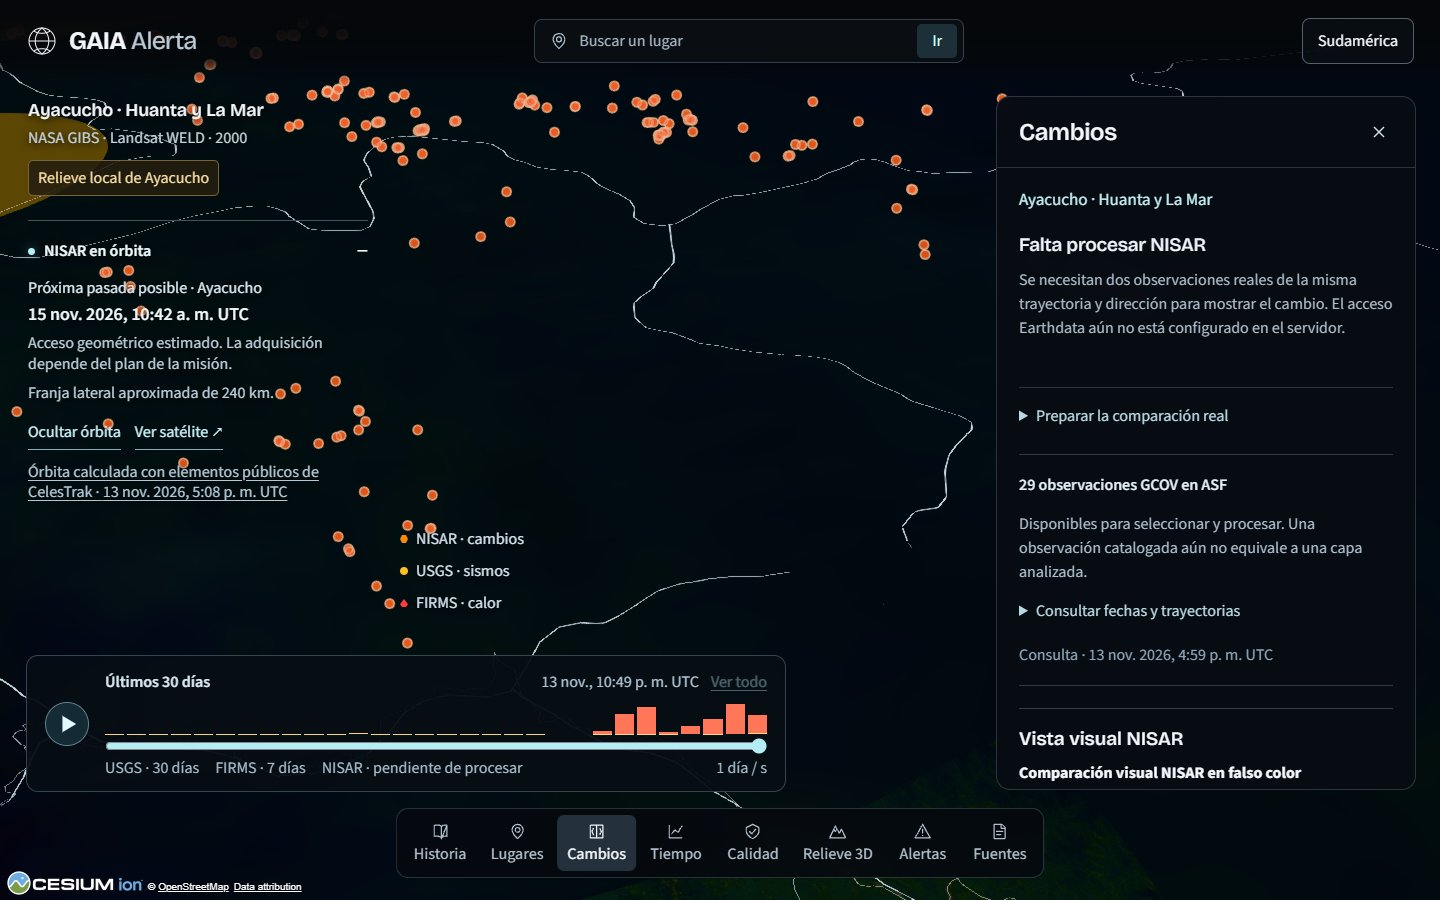
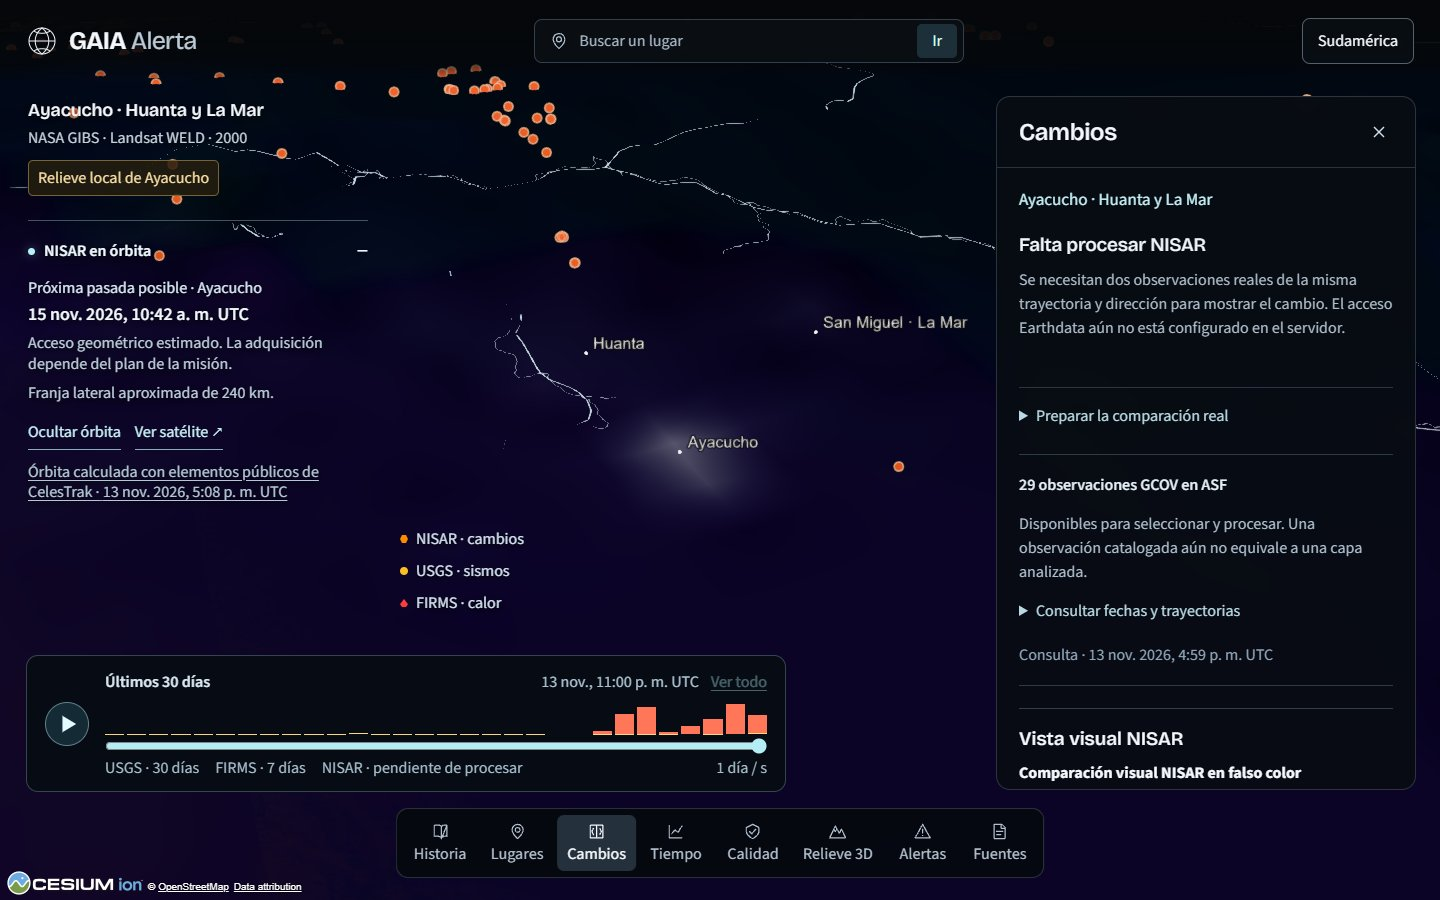
Centra el vuelo regional y corrige la oclusión de marcadores

diff --git a/apps/web/src/features/globe/Globe.tsx b/apps/web/src/features/globe/Globe.tsx
@@ -83,6 +83,7 @@ export function Globe({ aoi, tileUrl, beforeUrl, afterUrl, contextOverlay, split
     v.scene.backgroundColor = Cesium.Color.fromCssColorString("#05070a");
     v.scene.globe.baseColor = Cesium.Color.fromCssColorString("#071622");
     v.scene.globe.enableLighting = true;
+    v.scene.globe.depthTestAgainstTerrain = true;
     v.scene.globe.dynamicAtmosphereLighting = true;
     v.scene.globe.maximumScreenSpaceError = 1.5;
     v.scene.highDynamicRange = true;
@@ -287,9 +288,14 @@ export function Globe({ aoi, tileUrl, beforeUrl, afterUrl, contextOverlay, split
     const [w, s, e, n] = aoi.bbox;
     const cam = aoi.camera ?? {};
     const pad = camera === "overview" ? 6 : 0;
-    v.camera.flyTo({ destination: Cesium.Rectangle.fromDegrees(w - pad, s - pad, e + pad, n + pad),
-      orientation: { heading: Cesium.Math.toRadians(cam.heading_deg ?? 20),
-        pitch: Cesium.Math.toRadians(camera === "zone" ? -90 : camera === "overview" ? -60 : cam.pitch_deg ?? -38), roll: 0 },
+    const target = Cesium.Cartesian3.fromDegrees((w + e) / 2, (s + n) / 2);
+    const radius = Cesium.BoundingSphere.fromPoints([
+      Cesium.Cartesian3.fromDegrees(w - pad, s - pad), Cesium.Cartesian3.fromDegrees(e + pad, n + pad),
+    ]).radius;
+    const range = Math.max(camera === "zone" ? 80_000 : 120_000, radius * 3.6);
+    v.camera.flyToBoundingSphere(new Cesium.BoundingSphere(target, radius), {
+      offset: new Cesium.HeadingPitchRange(Cesium.Math.toRadians(cam.heading_deg ?? 20),
+        Cesium.Math.toRadians(camera === "zone" ? -90 : camera === "overview" ? -60 : cam.pitch_deg ?? -38), range),
       duration: window.matchMedia(REDUCED).matches ? 0 : 2.4, easingFunction: Cesium.EasingFunction.QUINTIC_IN_OUT });
   }, [aoi, camera, offline, active, reduceMotion]);
 
@@ -411,7 +417,7 @@ export function Globe({ aoi, tileUrl, beforeUrl, afterUrl, contextOverlay, split
         const point = points.add({ id, position: Cesium.Cartesian3.fromDegrees(lon, lat),
           pixelSize: 7, color: Cesium.Color.fromCssColorString("#ff6c3d"),
           outlineColor: Cesium.Color.fromCssColorString("#ffd1ab"), outlineWidth: 1,
-          disableDepthTestDistance: Number.POSITIVE_INFINITY, show: false });
+          disableDepthTestDistance: 0, show: false });
         firePoints.push({ point, date: Date.parse(p.date), lon, lat });
         continue;
       }
@@ -419,7 +425,7 @@ export function Globe({ aoi, tileUrl, beforeUrl, afterUrl, contextOverlay, split
         position: Cesium.Cartesian3.fromDegrees(lon, lat), properties: { alert: feature },
         billboard: { image: marker(p.kind, COLORS[p.kind] ?? COLORS.surface_change), width: size, height: size,
           heightReference: Cesium.HeightReference.CLAMP_TO_GROUND,
-          disableDepthTestDistance: Number.POSITIVE_INFINITY },
+          disableDepthTestDistance: 0 },
       });
       if (p.kind === "fire") {
         individualFires.push(entity);
@@ -515,6 +521,9 @@ export function Globe({ aoi, tileUrl, beforeUrl, afterUrl, contextOverlay, split
     });
     updateVisibility.current = visibility;
     const removeCamera = v.camera.changed.addEventListener(visibility);
+    const removeTerrain = v.scene.globe.tileLoadProgressEvent.addEventListener((pending: number) => {
+      if (!pending) visibility();
+    });
     let lastFlicker = 0;
     const removeFlicker = v.scene.preRender.addEventListener(() => {
       if (reduce || !points || v.camera.positionCartographic.height >= 220_000 || performance.now() - lastFlicker < 250) return;
@@ -544,6 +553,7 @@ export function Globe({ aoi, tileUrl, beforeUrl, afterUrl, contextOverlay, split
     return () => {
       cancelled = true;
       removeCamera();
+      removeTerrain();
       removeClock();
       removeFlicker();
       updateVisibility.current = () => undefined;

diff --git a/apps/web/src/features/globe/nisarOrbit.ts b/apps/web/src/features/globe/nisarOrbit.ts
@@ -45,7 +45,7 @@ export function addNisarOrbit(viewer: Cesium.Viewer, elements: OMMJsonObject, re
       silhouetteColor: Cesium.Color.fromCssColorString("#d5faff").withAlpha(.5), silhouetteSize: 1 },
     label: { text: "NISAR", font: "16px sans-serif", fillColor: Cesium.Color.WHITE,
       outlineColor: Cesium.Color.BLACK, outlineWidth: 3, style: Cesium.LabelStyle.FILL_AND_OUTLINE,
-      pixelOffset: new Cesium.Cartesian2(0, -45), disableDepthTestDistance: Number.POSITIVE_INFINITY },
+      pixelOffset: new Cesium.Cartesian2(0, -45), disableDepthTestDistance: 0 },
   });
   let disposed = false;
   modelOrigin().then(transforms => {

diff --git a/CHANGELOG.md b/CHANGELOG.md
@@ -4,6 +4,8 @@ Una línea por cambio relevante: qué cambió y por qué importa.
 
 ## Sin publicar
 
+- Ajustado el vuelo para centrar las zonas al inclinar la cámara y respetar la oclusión de marcadores detrás del globo; las alturas de focos se actualizan al cargar el relieve.
+
 - Verificación interactiva: aparición escalonada de marcadores al llegar, enlaces compartidos de celdas FIRMS y estado de W7 con el requisito real de Earthdata y procesamiento.
 
 - W6: órbita NISAR propagada con satellite.js autorizado, elementos públicos de CelesTrak fechados, modelo 3D, traza y franja lateral aproximada; la pasada de Ayacucho indica acceso geométrico, sin prometer adquisición.
